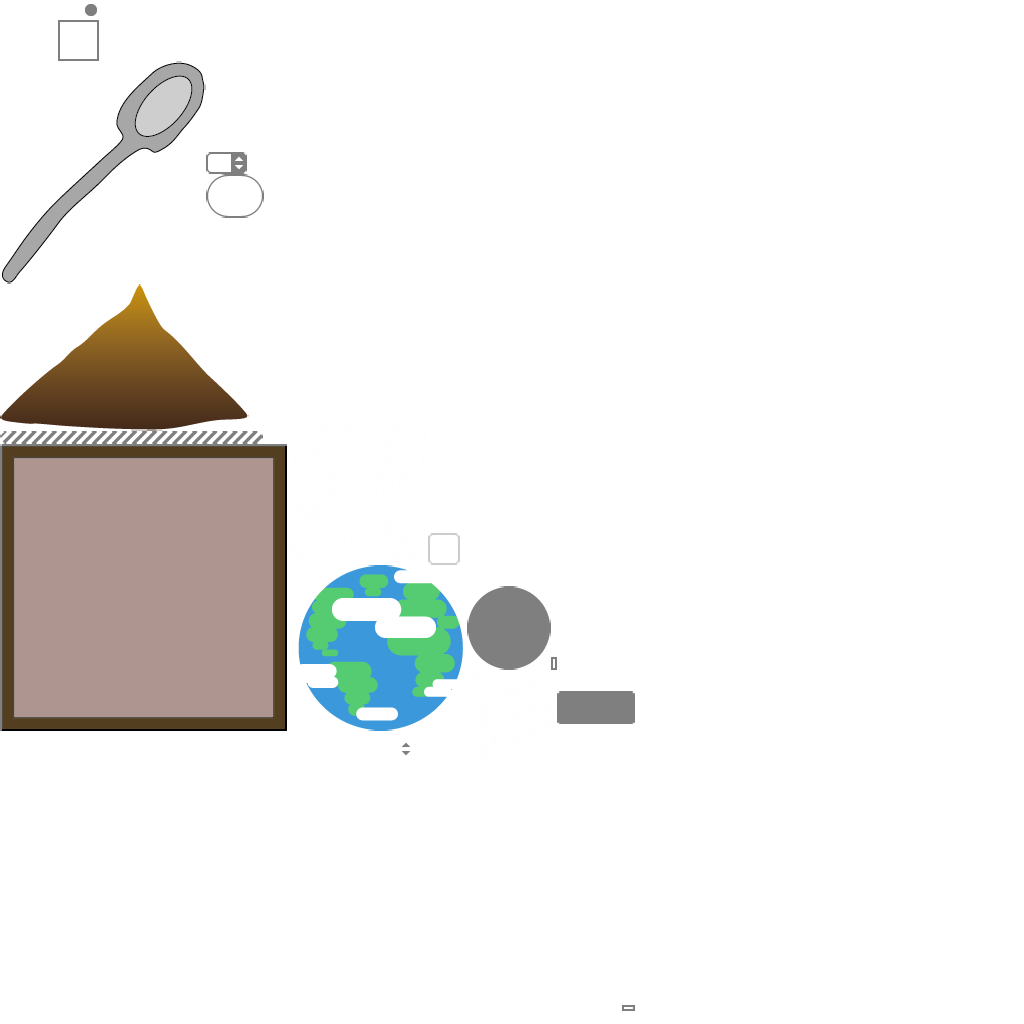
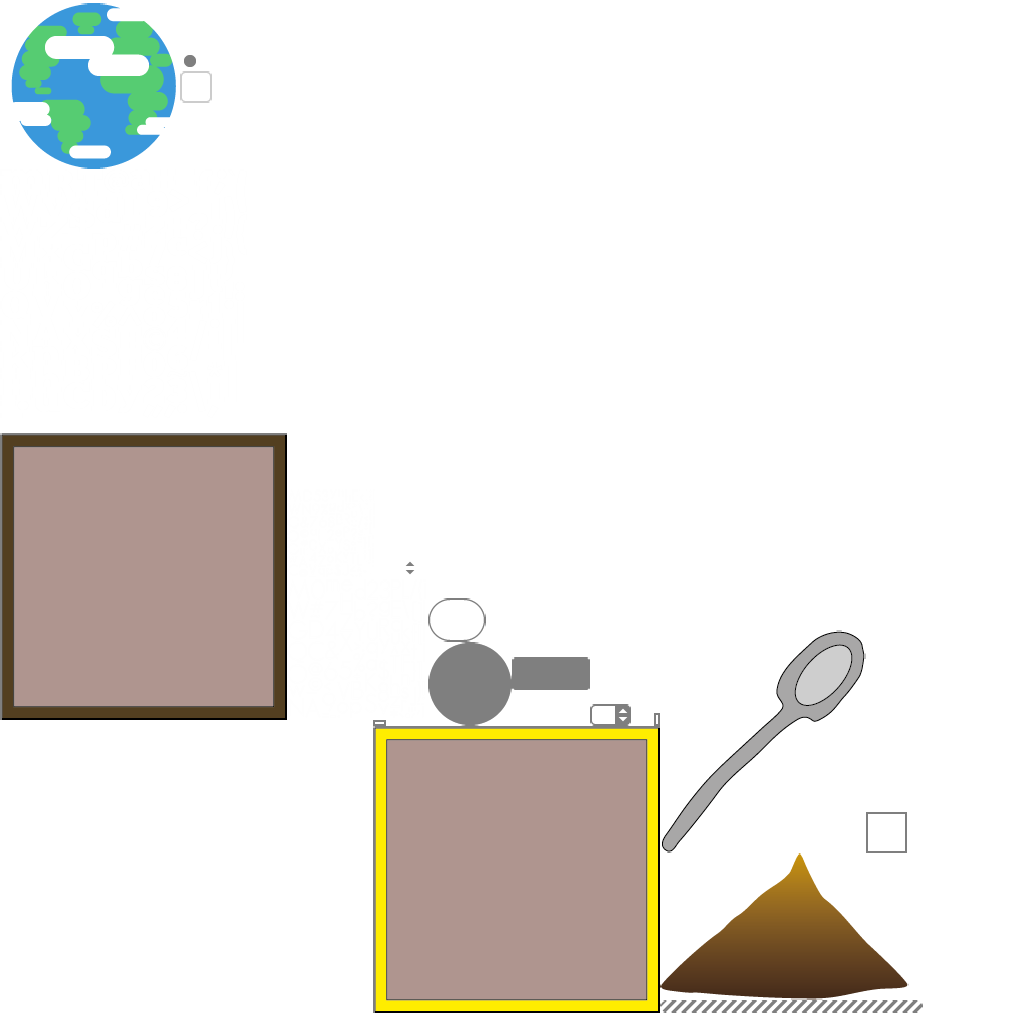
Add select cell in inventory for click on 1-6 number

diff --git a/core/src/com/mygdx/game/inventory/InventoryCell.java b/core/src/com/mygdx/game/inventory/InventoryCell.java
@@ -15,8 +15,11 @@ public class InventoryCell extends Widget {
     private static final int CELL_SIZE = 60;
     private Item item;
     private int offset =0;
-    public InventoryCell(){
+    private boolean current = false;
+
+    public InventoryCell(boolean current){
         this.setSize(CELL_SIZE,CELL_SIZE);
+        this.current = current;
     }
 
     public boolean isEmpty(){
@@ -27,17 +30,17 @@ public class InventoryCell extends Widget {
 
     public void setItem(Item item){
         this.item = item;
-        //TODO сделать метод установки картинки айтема в клетку
     }
 
     public void setOffset(int offset) {
         this.offset = offset;
     }
+    public void setCurrent(boolean isCurrent){this.current = isCurrent;}
 
     @Override
     public void draw(Batch batch, float parentAlpha){
         batch.setColor(1,1,1,parentAlpha);
-        Constants.APP_SKIN.getDrawable("cell-draw").draw(batch,offset,3,CELL_SIZE,CELL_SIZE);
+        Constants.APP_SKIN.getDrawable(current?"selectCell":"cell-draw").draw(batch,offset,3,CELL_SIZE,CELL_SIZE);
         if(item!=null){
             Constants.APP_SKIN.getDrawable(item.getName()).draw(batch,offset+5,8,50,50);
         }

diff --git a/core/src/com/mygdx/game/screenUI/GameUI.java b/core/src/com/mygdx/game/screenUI/GameUI.java
@@ -1,5 +1,7 @@
 package com.mygdx.game.screenUI;
 
+import com.badlogic.gdx.Gdx;
+import com.badlogic.gdx.Input;
 import com.badlogic.gdx.scenes.scene2d.ui.Table;
 import com.mygdx.game.Time.TimeTable;
 import com.mygdx.game.inventory.Inventory;
@@ -40,6 +42,21 @@ public class GameUI extends Table {
 
     public void updateTime(){
         timeTable.updateTime();
+    }
+    public void setCurrentCell(){
+        if(Gdx.input.isKeyJustPressed(Input.Keys.NUM_1)){
+            inventory.setCurrentCell(0);
+        }if(Gdx.input.isKeyJustPressed(Input.Keys.NUM_2)){
+            inventory.setCurrentCell(1);
+        }if(Gdx.input.isKeyJustPressed(Input.Keys.NUM_3)){
+            inventory.setCurrentCell(2);
+        }if(Gdx.input.isKeyJustPressed(Input.Keys.NUM_4)){
+            inventory.setCurrentCell(3);
+        }if(Gdx.input.isKeyJustPressed(Input.Keys.NUM_5)){
+            inventory.setCurrentCell(4);
+        }if(Gdx.input.isKeyJustPressed(Input.Keys.NUM_6)){
+            inventory.setCurrentCell(5);
+        }
     }
     public void addItem(Item item){inventory.addItem(item);}
 }

diff --git a/core/src/com/mygdx/game/screen/GameScreen.java b/core/src/com/mygdx/game/screen/GameScreen.java
@@ -8,8 +8,8 @@ import com.badlogic.gdx.physics.box2d.World;
 import com.mygdx.game.GameContext;
 import com.mygdx.game.entities.Player;
 import com.mygdx.game.entities.npc.TestNPC;
+import com.mygdx.game.items.GameItems;
 import com.mygdx.game.map.Map;
-import com.mygdx.game.quest.GenerateQuests;
 
 import com.mygdx.game.quest.QuestTable;
 import com.mygdx.game.Time.TimeManager;
@@ -81,9 +81,18 @@ public class GameScreen extends AbstractScreen {
         camera.update();
         gameRenderer.render(1f);
         gameUI.updateTime();
+        gameUI.setCurrentCell();
+        testItems();
         stage.update();
     }
 
+    //TODO remove
+    private void testItems(){
+        if(Gdx.input.isKeyJustPressed(Input.Keys.E))
+            gameUI.addItem(GameItems.DIRT.getItem());
+        if(Gdx.input.isKeyJustPressed(Input.Keys.R))
+            gameUI.addItem(GameItems.SPOON.getItem());
+    }
     @Override
     public void resize(int width, int height) {
 

diff --git a/core/src/com/mygdx/game/inventory/Inventory.java b/core/src/com/mygdx/game/inventory/Inventory.java
@@ -23,8 +23,8 @@ public class Inventory extends HorizontalGroup {
 
     private void initializeCell(){
         for(int i =0; i<COUNT_CELL;i++){
-            cells[i] = new InventoryCell();
-            cells[i].setOffset(i*cells[i].getCELL_SIZE());
+            cells[i] = new InventoryCell(currentCell == i);
+            cells[i].setOffset(i* InventoryCell.getCELL_SIZE());
             this.addActor(cells[i]);
         }
 
@@ -39,6 +39,12 @@ public class Inventory extends HorizontalGroup {
         }
 
         cells[currentCell].setItem(item);
+    }
+
+    public void setCurrentCell(int currentCell) {
+        cells[this.currentCell].setCurrent(false);
+        this.currentCell = currentCell;
+        cells[this.currentCell].setCurrent(true);
     }
 
 

diff --git a/core/src/com/mygdx/game/quest/GenerateQuests.java b/core/src/com/mygdx/game/quest/GenerateQuests.java
@@ -4,8 +4,8 @@ public class GenerateQuests {
 
     public static QuestTable generateQuests(){
         QuestLine questLine = new QuestLine("Sample quest");
-        questLine.addQuest(new Quest("Sample quest", "Something big description.\n All is usual, Vlad soset", false));
-        questLine.addQuest(new Quest("Sample quest2", "Something big description.\n All is usual, Vlad soset*2", true));
+        questLine.addQuest(new Quest("Sample quest", "Something big description.\n All is usual", false));
+        questLine.addQuest(new Quest("Sample quest2", "Something big description.\n All is usual", true));
 
         return new QuestTable(questLine);
     }

diff --git a/core/src/com/mygdx/game/items/GameItems.java b/core/src/com/mygdx/game/items/GameItems.java
@@ -1,0 +1,21 @@
+package com.mygdx.game.items;
+
+
+public enum GameItems {
+    SPOON(new Item("spoon")), DIRT(new Item("dirt"));
+
+    private Item item;
+
+    GameItems(Item item){
+        this.item = item;
+    }
+
+    public Item getItem() {
+        return item;
+    }
+
+    @Override
+    public String toString() {
+        return item.getName();
+    }
+}

diff --git a/desktop/src/com/mygdx/game/desktop/DesktopLauncher.java b/desktop/src/com/mygdx/game/desktop/DesktopLauncher.java
@@ -9,7 +9,7 @@ public class DesktopLauncher {
 		LwjglApplicationConfiguration config = new LwjglApplicationConfiguration();
 		config.width = 1280;
 		config.height = 720;
-		config.title = "Vlad soset";
+		config.title = "Game";
 		config.x = 100;
 		config.y = 50;
 
